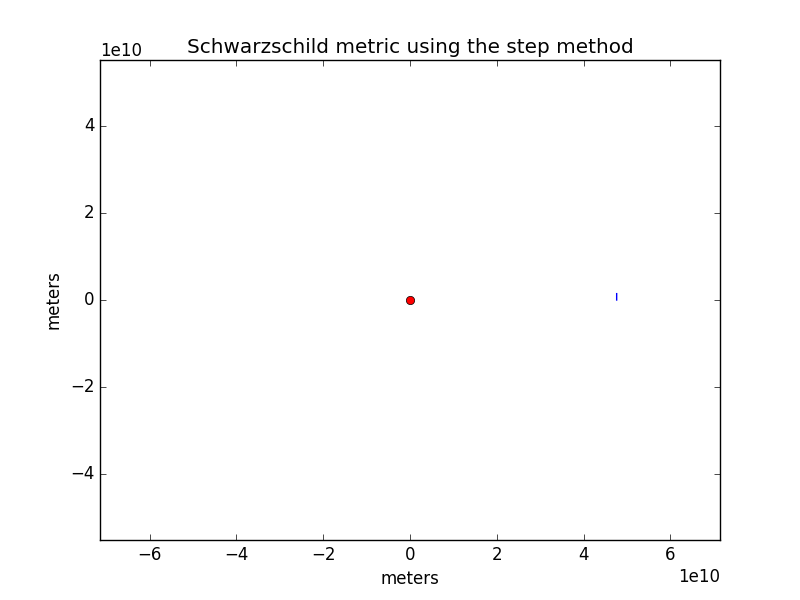
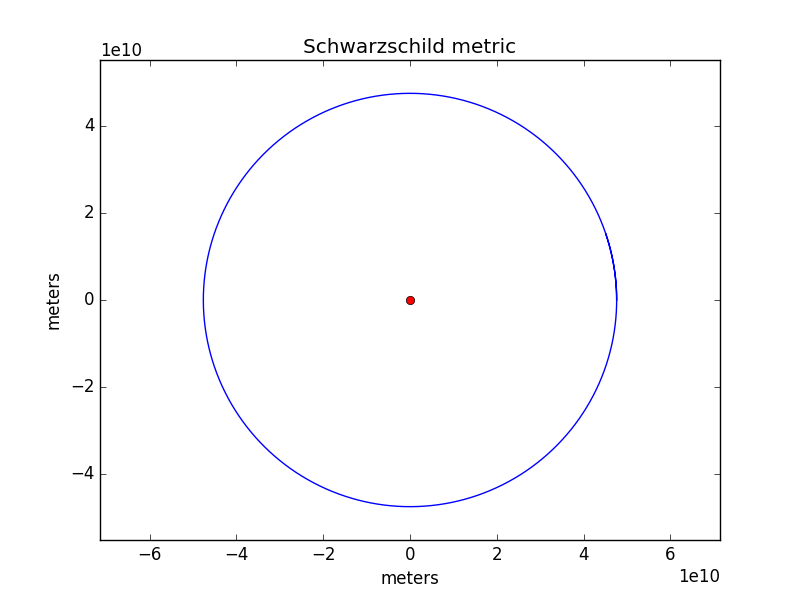
Done

diff --git a/Labs/Project_2_step.py b/Labs/Project_2_step.py
@@ -13,23 +13,23 @@ c = 1
 r0 = 4.7607E10
 dr0 = 0
 th0 = 0
-dt0 = 0.001
+dt0 = 4.0833E-15
 
-# define a start time, end time, and step size.
+# Create a list of times, the orbital period is 8.
 a = 0
-b = 1250000
+b = 170000
 h = 0.1
 
 # Store the initial conditions in an array.
 p0 = [r0,th0,dr0,dt0]
 
-# Angular momentum
-l = m*p0[3]*p0[0]**2
+#angular momentum
+l = p0[3]*p0[0]**2
 
 # This function steps the simulation forward one step.
 def step(r,p):
 	newr = 2*r[-1] - r[-2] + h**2 * (-M/r[-1]**2 + l**2 / r[-1]**3 - 3*M*l**2 / r[-1]**4)
-	newt = p[-1] + 4*h*(l/(newr + r[-1])**2)
+	newt = p[-1] + 4*h*(l/(newr + r[-1]))
 	return newr, newt
 
 # Define a function to find the derivative of each component of r.
@@ -53,18 +53,25 @@ p1 = p0 + Edr(p0)*h
 rpos = [p0[0], p1[0]]
 tpos = [p0[1], p1[1]]
 
+# Calculate b steps of step size h.
 for t in range(a,b):
 	newr, newt = step(rpos,tpos)
 	rpos.append(newr)
 	tpos.append(newt)
 
+#This code is used to see if there is any deviation in the orbit, turns out there isn't any.
+# minimum = np.amin(rpos)
+# maximum = np.amax(rpos)
 
-# Plot the data
+# print(minimum)
+# print(maximum)
+
+# plot the data
 plt.plot(np.multiply(rpos,np.cos(tpos)),np.multiply(rpos,np.sin(tpos)),'b')
 plt.plot(0,0,'ro')
 plt.ylim(ymax=1.5*r0,ymin=-1.5*r0)
 plt.xlim(xmax=1.5*r0,xmin=-1.5*r0)
-plt.title('Schwarzschild metric using the step method')
+plt.title('Schwarzschild metric')
 plt.xlabel('meters')
 plt.ylabel('meters')
 plt.axes().set_aspect('equal', 'datalim')

diff --git a/Labs/tryitinmatlab.m b/Labs/tryitinmatlab.m
@@ -1,0 +1,22 @@
+function f = tryitinmatlab(t,u)
+
+M = 1477;
+h = 6.77E11;
+
+f = [u(3); u(4); -M/u(1)^2 + h^2 / u(1)^3 - 3*M*h^2 / u(1)^4 ; h/u(1)^2 ];
+
+end
+
+% b = 200;
+% t = linspace(0,b);
+
+% u0 = [4.7607E10,0,0,1.22];
+
+% % Run the 113 ODE solver.
+% opt = odeset('RelTol',10e-6);
+% [t5,u5] = ode113(@tryitinmatlab,3*t,u0,opt);
+% figure
+% plot()
+% title('Graph of satelite position using ODE113 solver')
+% ylabel('y position')
+% xlabel('x position')

diff --git a/Labs/Project_2_wobble.py b/Labs/Project_2_wobble.py
@@ -6,7 +6,7 @@ import scipy.integrate as inter
 # G * the sun's mass in kg.
 M = 1.477
 
-# Define wobble and critical radius
+# Define wobble and critical radius.  u is defined as 1/r.
 w0 = 0.177
 rc = 57.9E9
 uc = 1/rc
@@ -21,6 +21,7 @@ angles = np.linspace(0,orbits*2*np.pi,res)
 # Calculate the wobble as a function of phi.
 w = w0*np.cos((1-6*M*uc)*angles)
 
+# Change from u to r.
 upoints = uc*(1+w)
 rpoints = 1/upoints
 
